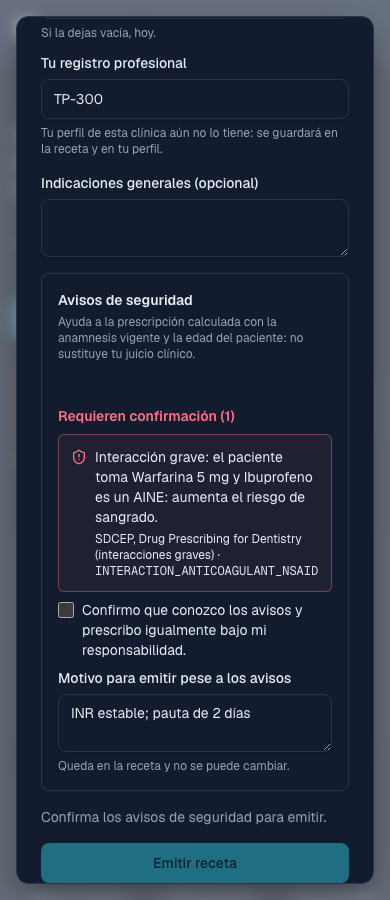
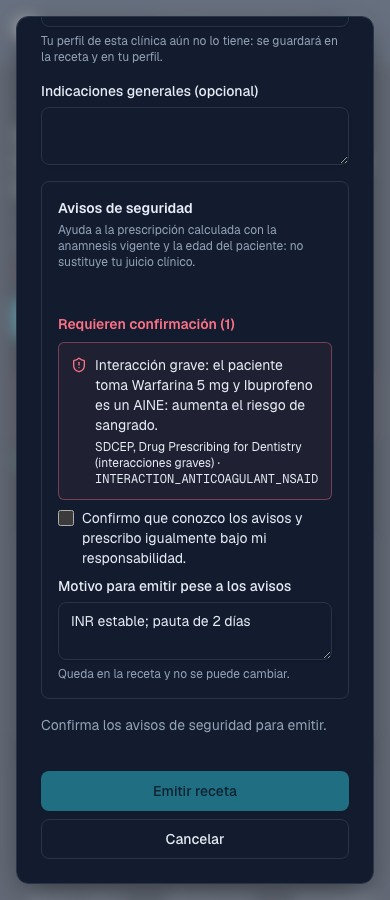
docs(planning): diagnóstico del fallo native light, corrección de salto y capturas QA de DX-344 y DX-347

diff --git a/.planning/backlog-wave-2026-10-27/DX347/REPORT.md b/.planning/backlog-wave-2026-10-27/DX347/REPORT.md
@@ -13,3 +13,15 @@ Base `a02b70df36e5b57e7a018f50c337118230d0690b`. El carril colapsado reduce su p
 ## Historial y límites
 
 Las pruebas iniciales detectaron pérdida de anchura y recorte del foco/badge antes del ajuste. Un intento final falló en dos casos porque la aserción esperaba exactamente una incidencia histórica de contraste ya corregida; su log y trazas se conservaron en `/tmp/dx347-failure-preserved-20261027`. Se sustituyó por una exigencia de cero incidencias, sin exclusiones, y se repitió la suite completa. Las capturas y logs de QA están conservados fuera del repositorio en `/tmp/dx347-evidence-20261027`; las mediciones JSON finales están junto a este informe. No se han probado barras nativas de Windows/Linux.
+
+## Diagnóstico del fallo «native light» (cierre en loop/DX-344-347-final)
+
+**Causa:** era una aserción obsoleta, no un fallo de producto ni de la barra. El intento final aún exigía exactamente una incidencia axe de contraste en el contador de anamnesis en claro (`toHaveLength(colorScheme === 'light' ? 1 : 0)`), pero el mismo cambio ya pasaba el contador a `text-ink`, y axe devolvía 0. Por eso fallaron exactamente los dos casos claros (native y classic) y pasaron los oscuros.
+
+Se reprodujo en ambos sentidos sobre esta rama (build de producción, API real):
+- **Mutación A**, la aserción antigua con el producto actual: falla native light y classic light con `Expected length: 1 / Received length: 0`, idéntico al log conservado; los oscuros pasan.
+- **Mutación B**, la aserción actual (cero violaciones, sin exclusiones) con el contador devuelto a `text-warning`: falla native light y classic light con `color-contrast` (serious) en el contador. La prueba vigente detecta el defecto real.
+
+La aserción actual no excluye nada: los specs del sidebar no usan `exclude` ni `disableRules`. `test.use({ launchOptions })` afecta a todo el fichero porque Playwright no lo admite dentro de un `describe` (comprobado: «Cannot use({ launchOptions }) in a describe group»); se documenta en el spec.
+
+Capturas adicionales en `final/`: `qa-1440-{light,dark}-{expanded,rail}`, `qa-390-{light,dark}` y la barra clásica `qa-1440-{light,dark}-classic-{rail,expanded}` (1440×640, nav con scroll). En el carril con barra overlay de headless la barra se dibuja sobre el contador; en macOS real se oculta. Es la misma posición que antes del cambio.

diff --git a/.planning/backlog-wave-2026-10-27/DX344/fix-round-2.md b/.planning/backlog-wave-2026-10-27/DX344/fix-round-2.md
@@ -1,0 +1,13 @@
+# DX344 · cierre, ronda 2 (rama loop/DX-344-347-final)
+
+**Salto del pie del diálogo.** La explicación junto a «Emitir» se montaba y desmontaba en cada recomprobación: «Espera a que termine la comprobación…» aparece con cada edición de principio activo, concentración, dosis o frecuencia y desaparece al llegar la respuesta. Medido en Chromium (prod, API real): el diálogo crece 28 px a 1440 (1 línea + gap) y 48 px a 390 (2 líneas). Si el diálogo cabe en la ventana, al estar centrado, el campo que se está escribiendo sube 14 px y vuelve a bajar. Si hace scroll, el pie baja 28 px; el scroll anchoring de Chromium lo compensa, pero Safari no tiene ese comportamiento garantizado.
+
+**Corrección.** `FormModal` reserva el hueco cuando el consumidor pasa `submitHint`, aunque valga `null`: `min-h-10` en móvil y `sm:min-h-5`. Vacío, el párrafo es `aria-hidden` y el botón no lleva `aria-describedby`. Sin la prop no hay hueco, así que los demás formularios no cambian.
+
+**Pruebas.**
+- RED/GREEN e2e: `scrollHeight` del diálogo idéntico entre el estado bloqueado y el habilitado, y entre la comprobación pendiente y la resuelta. Falló antes (1584 frente a 1556) y pasa después. Se mide `scrollHeight` y no la caja de «Emitir», porque el scroll anchoring oculta el salto.
+- Jest: el hueco se conserva (es el mismo nodo) al pasar de texto a `null` y otra vez a texto; la descripción accesible solo existe con texto; sin la prop no hay hueco. Falló antes y pasa después.
+
+**Evidencias fuera del árbol.** El spec escribía capturas y axe en `.planning/…/DX344` en cada ejecución, CI incluida, y dejaba el árbol sucio. Ahora solo lo hace con `DX344_QA_DIR`, igual que DX347 con `DX347_QA_DIR`. Las comprobaciones se ejecutan siempre.
+
+Capturas 390/1440 claro/oscuro regeneradas tras el cambio: aviso, motivo, explicación y acciones visibles, y axe 0 violaciones en las 4 combinaciones.
